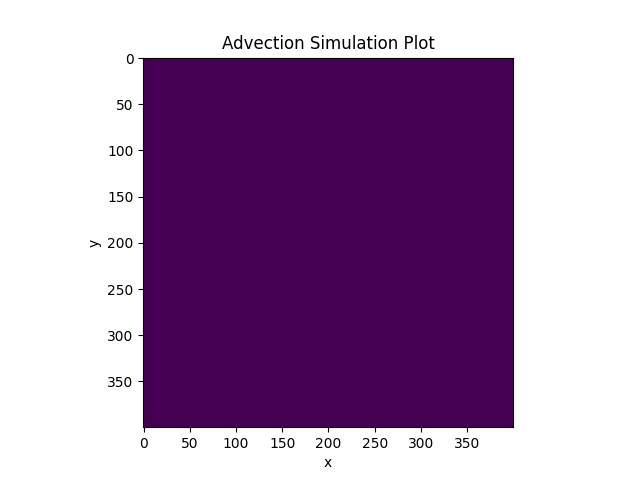
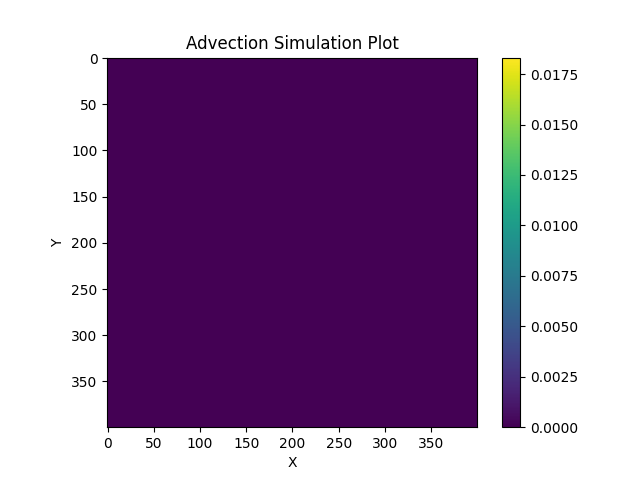
final plots

diff --git a/milestone-1/generate_plots.py b/milestone-1/generate_plots.py
@@ -20,8 +20,9 @@ def plot_data(filename):
     '''
     data = read_file(filename)
     plt.imshow(data, interpolation='none')
-    plt.xlabel('x')
-    plt.ylabel('y')
+    plt.xlabel('X')
+    plt.ylabel('Y')
+    plt.colorbar(orientation='vertical')
     plt.title('Advection Simulation Plot')
     plt.savefig('.' + filename.split('.')[1] + '.png')
 
